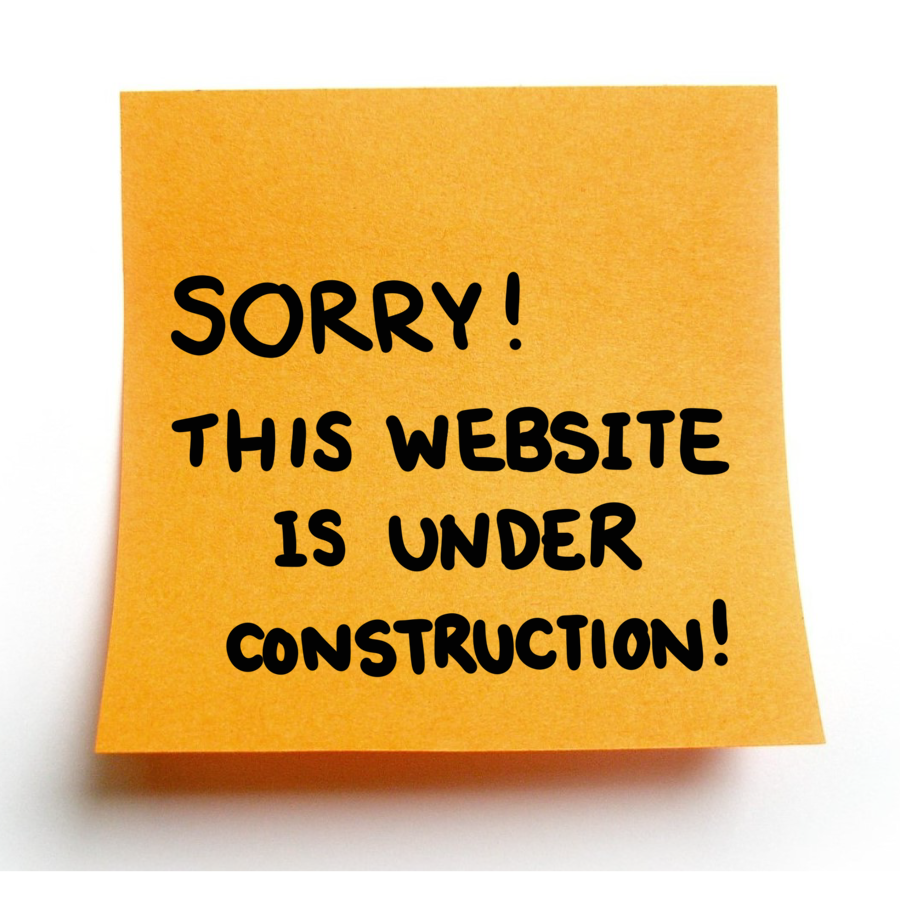
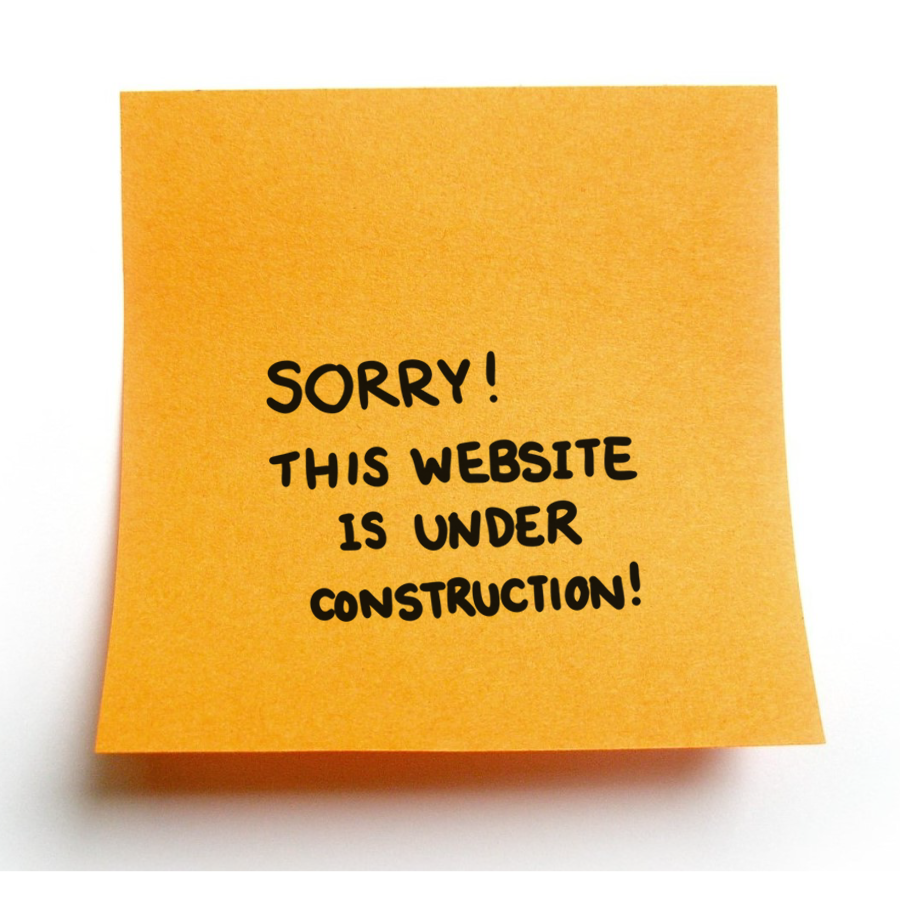
changed appearance of notice

Changed region(s): [[0.1867, 0.28, 0.8089, 0.7778]]

diff --git a/components/postit.js b/components/postit.js
@@ -1,5 +1,5 @@
 var checkbox = document.getElementById('checkbox1');
-        var img_1 = 'https://i.imgur.com/9y1Wgct.png';
+        var img_1 = 'https://i.imgur.com/a/6hs0JZv.png';
         var img_2 = 'https://i.imgur.com/69NSeT9.gif';
 
 checkbox.onclick = function () {

diff --git a/index.html b/index.html
@@ -39,7 +39,7 @@
 
         <section>
             
-            <img src="https://i.imgur.com/9y1Wgct.png" id="checkbox1" width="500 "/> 
+            <img src="https://i.imgur.com/a/6hs0JZv.png" id="checkbox1" width="500 "/> 
            
         </section>
 
